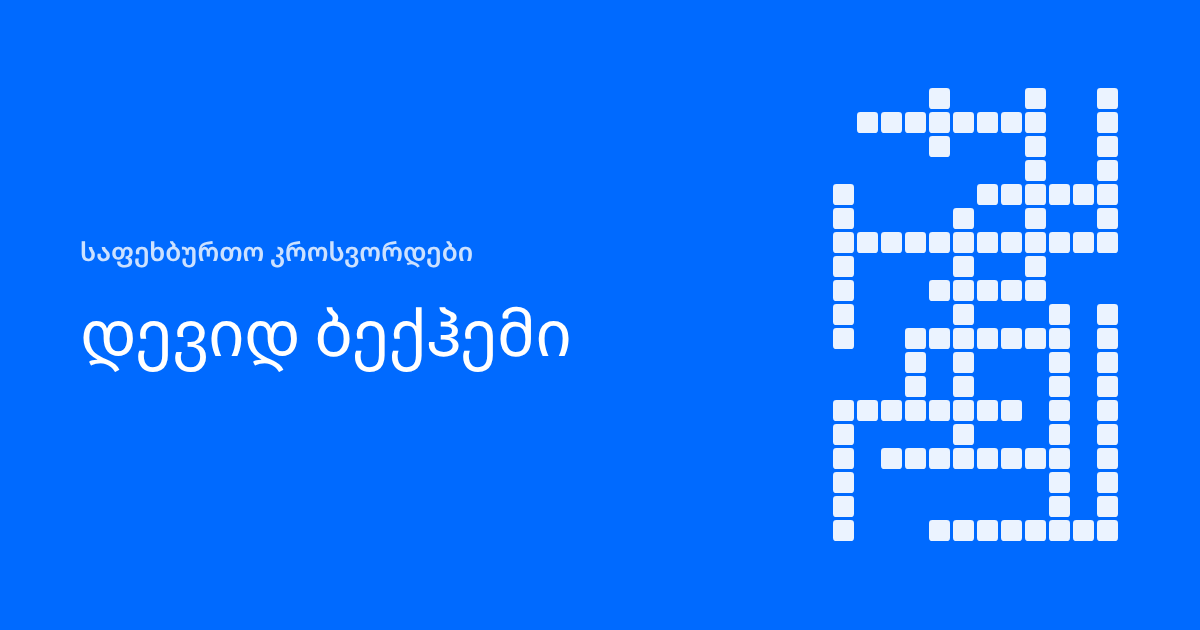
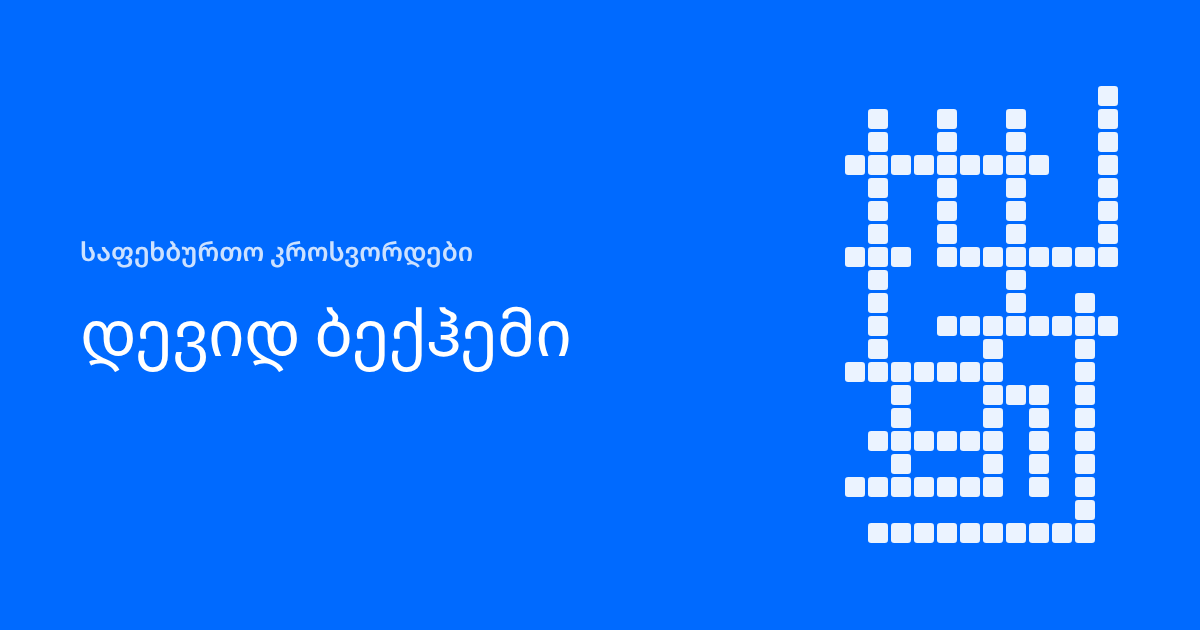
Rebuild Beckham crossword grid so სერ fits naturally

Changed region(s): [[0.6783, 0.1206, 0.9558, 0.8746]]

diff --git a/ka-david-beckham/puzzle.js b/ka-david-beckham/puzzle.js
@@ -4,127 +4,127 @@ window.PUZZLE = {
   "title": "დევიდ <em>ბექჰემი</em>",
   "intro": "თავისი დროის ერთ-ერთი ყველაზე ცნობილი ფეხბურთელი, მოედანზეც და მის გარეთაც. რთული. დასაწყებად დააკლიკე უჯრას; მიმართულების შესაცვლელად კიდევ ერთხელ დააკლიკე.",
   "note": "არაოფიციალური თამაში ფეხბურთის გულშემატკივრებისთვის. ტესტური ვერსია.",
-  "rows": 19,
+  "rows": 20,
   "cols": 12,
   "words": [
     {
-      "answer": "პსჟ",
-      "row": 0,
-      "col": 4,
-      "dir": "D",
-      "clue": "კლუბი, სადაც 2013 წელს კარიერა დაასრულა."
-    },
-    {
-      "answer": "უიმბლდონი",
-      "row": 0,
-      "col": 8,
-      "dir": "D",
-      "clue": "1996 წელს ამ კლუბს საკუთარი მოედნის ნახევრიდან გაუტანა."
-    },
-    {
-      "answer": "თბილისი",
+      "answer": "ბრუკლინი",
       "row": 0,
       "col": 11,
       "dir": "D",
-      "clue": "ქალაქი, სადაც 1996 წელს, ინგლისის ნაკრებთან ერთად ჩამოსულმა, მომავალი მეუღლე პირველად ტელევიზორში ნახა."
+      "clue": "უფროსი ვაჟი, რომელიც 1999 წელს დაიბადა."
     },
     {
-      "answer": "პრესტონი",
+      "answer": "ლეიტონსტოუნი",
       "row": 1,
       "col": 1,
-      "dir": "A",
-      "clue": "კლუბი, სადაც 1995 წელს იჯარით ითამაშა."
+      "dir": "D",
+      "clue": "აღმოსავლეთ ლონდონის უბანი, სადაც 1975 წელს დაიბადა."
     },
     {
       "answer": "გალაქსი",
-      "row": 4,
-      "col": 0,
+      "row": 1,
+      "col": 4,
       "dir": "D",
       "clue": "ლოს-ანჯელესის კლუბი, რომელშიც 2007 წელს გადავიდა."
     },
     {
-      "answer": "მილანი",
-      "row": 4,
-      "col": 6,
-      "dir": "A",
-      "clue": "იტალიური კლუბი, სადაც ორჯერ იჯარით ითამაშა."
-    },
-    {
-      "answer": "ინტერმაიამი",
-      "row": 5,
-      "col": 5,
-      "dir": "D",
-      "clue": "კლუბი, რომლის ერთ-ერთი მფლობელია."
-    },
-    {
-      "answer": "ლეიტონსტოუნი",
-      "row": 6,
-      "col": 0,
-      "dir": "A",
-      "clue": "აღმოსავლეთ ლონდონის უბანი, სადაც 1975 წელს დაიბადა."
-    },
-    {
-      "answer": "რეალი",
-      "row": 8,
-      "col": 4,
-      "dir": "A",
-      "clue": "კლუბი, რომელშიც 2003 წელს გადავიდა."
-    },
-    {
       "answer": "სენტეტიენი",
-      "row": 9,
-      "col": 9,
+      "row": 1,
+      "col": 7,
       "dir": "D",
       "clue": "საფრანგეთის ქალაქი, სადაც 1998 წლის მსოფლიო ჩემპიონატზე არგენტინასთან მატჩში გააძევეს."
     },
     {
-      "answer": "საბერძნეთი",
-      "row": 9,
-      "col": 11,
-      "dir": "D",
-      "clue": "ამ ნაკრებს საჯარიმო დარტყმით გაუტანა და ინგლისი 2002 წლის მსოფლიო ჩემპიონატზე გაიყვანა."
-    },
-    {
-      "answer": "სიმეონე",
-      "row": 10,
-      "col": 3,
-      "dir": "A",
-      "clue": "არგენტინელი, რომელსაც 1998 წელს ფეხი ჩაარტყა და ამის გამო წითელი ბარათი მიიღო."
-    },
-    {
-      "answer": "სერ",
-      "row": 10,
-      "col": 3,
-      "dir": "D",
-      "clue": "2025 წელს მეფე ჩარლზმა რაინდის წოდება მიანიჭა. ახლა მას ___ დევიდს ეძახიან."
-    },
-    {
-      "answer": "კაპიტანი",
-      "row": 13,
+      "answer": "უიმბლდონი",
+      "row": 3,
       "col": 0,
       "dir": "A",
-      "clue": "2000–2006 წლებში ინგლისის ნაკრების ___ იყო."
+      "clue": "1996 წელს ამ კლუბს საკუთარი მოედნის ნახევრიდან გაუტანა."
     },
     {
-      "answer": "კაპელო",
-      "row": 13,
+      "answer": "პსჟ",
+      "row": 7,
       "col": 0,
-      "dir": "D",
-      "clue": "მწვრთნელი, რომელთანაც 2007 წელს ესპანეთის ჩემპიონატი მოიგო."
+      "dir": "A",
+      "clue": "კლუბი, სადაც 2013 წელს კარიერა დაასრულა."
     },
     {
       "answer": "იუნისეფი",
-      "row": 15,
-      "col": 2,
+      "row": 7,
+      "col": 4,
       "dir": "A",
       "clue": "ორგანიზაცია, რომლის კეთილი ნების ელჩია."
     },
     {
-      "answer": "ბრუკლინი",
-      "row": 18,
+      "answer": "ინტერმაიამი",
+      "row": 9,
+      "col": 10,
+      "dir": "D",
+      "clue": "კლუბი, რომლის ერთ-ერთი მფლობელია."
+    },
+    {
+      "answer": "კაპიტანი",
+      "row": 10,
       "col": 4,
       "dir": "A",
-      "clue": "უფროსი ვაჟი, რომელიც 1999 წელს დაიბადა."
+      "clue": "2000–2006 წლებში ინგლისის ნაკრების ___ იყო."
+    },
+    {
+      "answer": "პრესტონი",
+      "row": 10,
+      "col": 6,
+      "dir": "D",
+      "clue": "კლუბი, სადაც 1995 წელს იჯარით ითამაშა."
+    },
+    {
+      "answer": "სიმეონე",
+      "row": 12,
+      "col": 0,
+      "dir": "A",
+      "clue": "არგენტინელი, რომელსაც 1998 წელს ფეხი ჩაარტყა და ამის გამო წითელი ბარათი მიიღო."
+    },
+    {
+      "answer": "მილანი",
+      "row": 12,
+      "col": 2,
+      "dir": "D",
+      "clue": "იტალიური კლუბი, სადაც ორჯერ იჯარით ითამაშა."
+    },
+    {
+      "answer": "სერ",
+      "row": 13,
+      "col": 6,
+      "dir": "A",
+      "clue": "2025 წელს მეფე ჩარლზმა რაინდის წოდება მიანიჭა. ახლა მას ___ დევიდს ეძახიან."
+    },
+    {
+      "answer": "რეალი",
+      "row": 13,
+      "col": 8,
+      "dir": "D",
+      "clue": "კლუბი, რომელშიც 2003 წელს გადავიდა."
+    },
+    {
+      "answer": "კაპელო",
+      "row": 15,
+      "col": 1,
+      "dir": "A",
+      "clue": "მწვრთნელი, რომელთანაც 2007 წელს ესპანეთის ჩემპიონატი მოიგო."
+    },
+    {
+      "answer": "თბილისი",
+      "row": 17,
+      "col": 0,
+      "dir": "A",
+      "clue": "ქალაქი, სადაც 1996 წელს, ინგლისის ნაკრებთან ერთად ჩამოსულმა, მომავალი მეუღლე პირველად ტელევიზორში ნახა."
+    },
+    {
+      "answer": "საბერძნეთი",
+      "row": 19,
+      "col": 1,
+      "dir": "A",
+      "clue": "ამ ნაკრებს საჯარიმო დარტყმით გაუტანა და ინგლისი 2002 წლის მსოფლიო ჩემპიონატზე გაიყვანა."
     }
   ],
   "lang": "ka"

diff --git a/ka-david-beckham/index.html b/ka-david-beckham/index.html
@@ -38,26 +38,26 @@
       <p class="intro">თავისი დროის ერთ-ერთი ყველაზე ცნობილი ფეხბურთელი, მოედანზეც და მის გარეთაც. რთული. დასაწყებად დააკლიკე უჯრას; მიმართულების შესაცვლელად კიდევ ერთხელ დააკლიკე.</p>
       <section class="clues"><section><h3>ჰორიზონტალურად</h3>
       <ol>
-        <li>კლუბი, სადაც 1995 წელს იჯარით ითამაშა. (8)</li>
-        <li>იტალიური კლუბი, სადაც ორჯერ იჯარით ითამაშა. (6)</li>
-        <li>აღმოსავლეთ ლონდონის უბანი, სადაც 1975 წელს დაიბადა. (12)</li>
-        <li>კლუბი, რომელშიც 2003 წელს გადავიდა. (5)</li>
-        <li>არგენტინელი, რომელსაც 1998 წელს ფეხი ჩაარტყა და ამის გამო წითელი ბარათი მიიღო. (7)</li>
-        <li>2000–2006 წლებში ინგლისის ნაკრების ___ იყო. (8)</li>
+        <li>1996 წელს ამ კლუბს საკუთარი მოედნის ნახევრიდან გაუტანა. (9)</li>
+        <li>კლუბი, სადაც 2013 წელს კარიერა დაასრულა. (3)</li>
         <li>ორგანიზაცია, რომლის კეთილი ნების ელჩია. (8)</li>
-        <li>უფროსი ვაჟი, რომელიც 1999 წელს დაიბადა. (8)</li>
+        <li>2000–2006 წლებში ინგლისის ნაკრების ___ იყო. (8)</li>
+        <li>არგენტინელი, რომელსაც 1998 წელს ფეხი ჩაარტყა და ამის გამო წითელი ბარათი მიიღო. (7)</li>
+        <li>2025 წელს მეფე ჩარლზმა რაინდის წოდება მიანიჭა. ახლა მას ___ დევიდს ეძახიან. (3)</li>
+        <li>მწვრთნელი, რომელთანაც 2007 წელს ესპანეთის ჩემპიონატი მოიგო. (6)</li>
+        <li>ქალაქი, სადაც 1996 წელს, ინგლისის ნაკრებთან ერთად ჩამოსულმა, მომავალი მეუღლე პირველად ტელევიზორში ნახა. (7)</li>
+        <li>ამ ნაკრებს საჯარიმო დარტყმით გაუტანა და ინგლისი 2002 წლის მსოფლიო ჩემპიონატზე გაიყვანა. (10)</li>
       </ol>
       </section><section><h3>ვერტიკალურად</h3>
       <ol>
-        <li>კლუბი, სადაც 2013 წელს კარიერა დაასრულა. (3)</li>
-        <li>1996 წელს ამ კლუბს საკუთარი მოედნის ნახევრიდან გაუტანა. (9)</li>
-        <li>ქალაქი, სადაც 1996 წელს, ინგლისის ნაკრებთან ერთად ჩამოსულმა, მომავალი მეუღლე პირველად ტელევიზორში ნახა. (7)</li>
+        <li>უფროსი ვაჟი, რომელიც 1999 წელს დაიბადა. (8)</li>
+        <li>აღმოსავლეთ ლონდონის უბანი, სადაც 1975 წელს დაიბადა. (12)</li>
         <li>ლოს-ანჯელესის კლუბი, რომელშიც 2007 წელს გადავიდა. (7)</li>
-        <li>კლუბი, რომლის ერთ-ერთი მფლობელია. (11)</li>
         <li>საფრანგეთის ქალაქი, სადაც 1998 წლის მსოფლიო ჩემპიონატზე არგენტინასთან მატჩში გააძევეს. (10)</li>
-        <li>ამ ნაკრებს საჯარიმო დარტყმით გაუტანა და ინგლისი 2002 წლის მსოფლიო ჩემპიონატზე გაიყვანა. (10)</li>
-        <li>2025 წელს მეფე ჩარლზმა რაინდის წოდება მიანიჭა. ახლა მას ___ დევიდს ეძახიან. (3)</li>
-        <li>მწვრთნელი, რომელთანაც 2007 წელს ესპანეთის ჩემპიონატი მოიგო. (6)</li>
+        <li>კლუბი, რომლის ერთ-ერთი მფლობელია. (11)</li>
+        <li>კლუბი, სადაც 1995 წელს იჯარით ითამაშა. (8)</li>
+        <li>იტალიური კლუბი, სადაც ორჯერ იჯარით ითამაშა. (6)</li>
+        <li>კლუბი, რომელშიც 2003 წელს გადავიდა. (5)</li>
       </ol>
       </section></section>
     </main>
